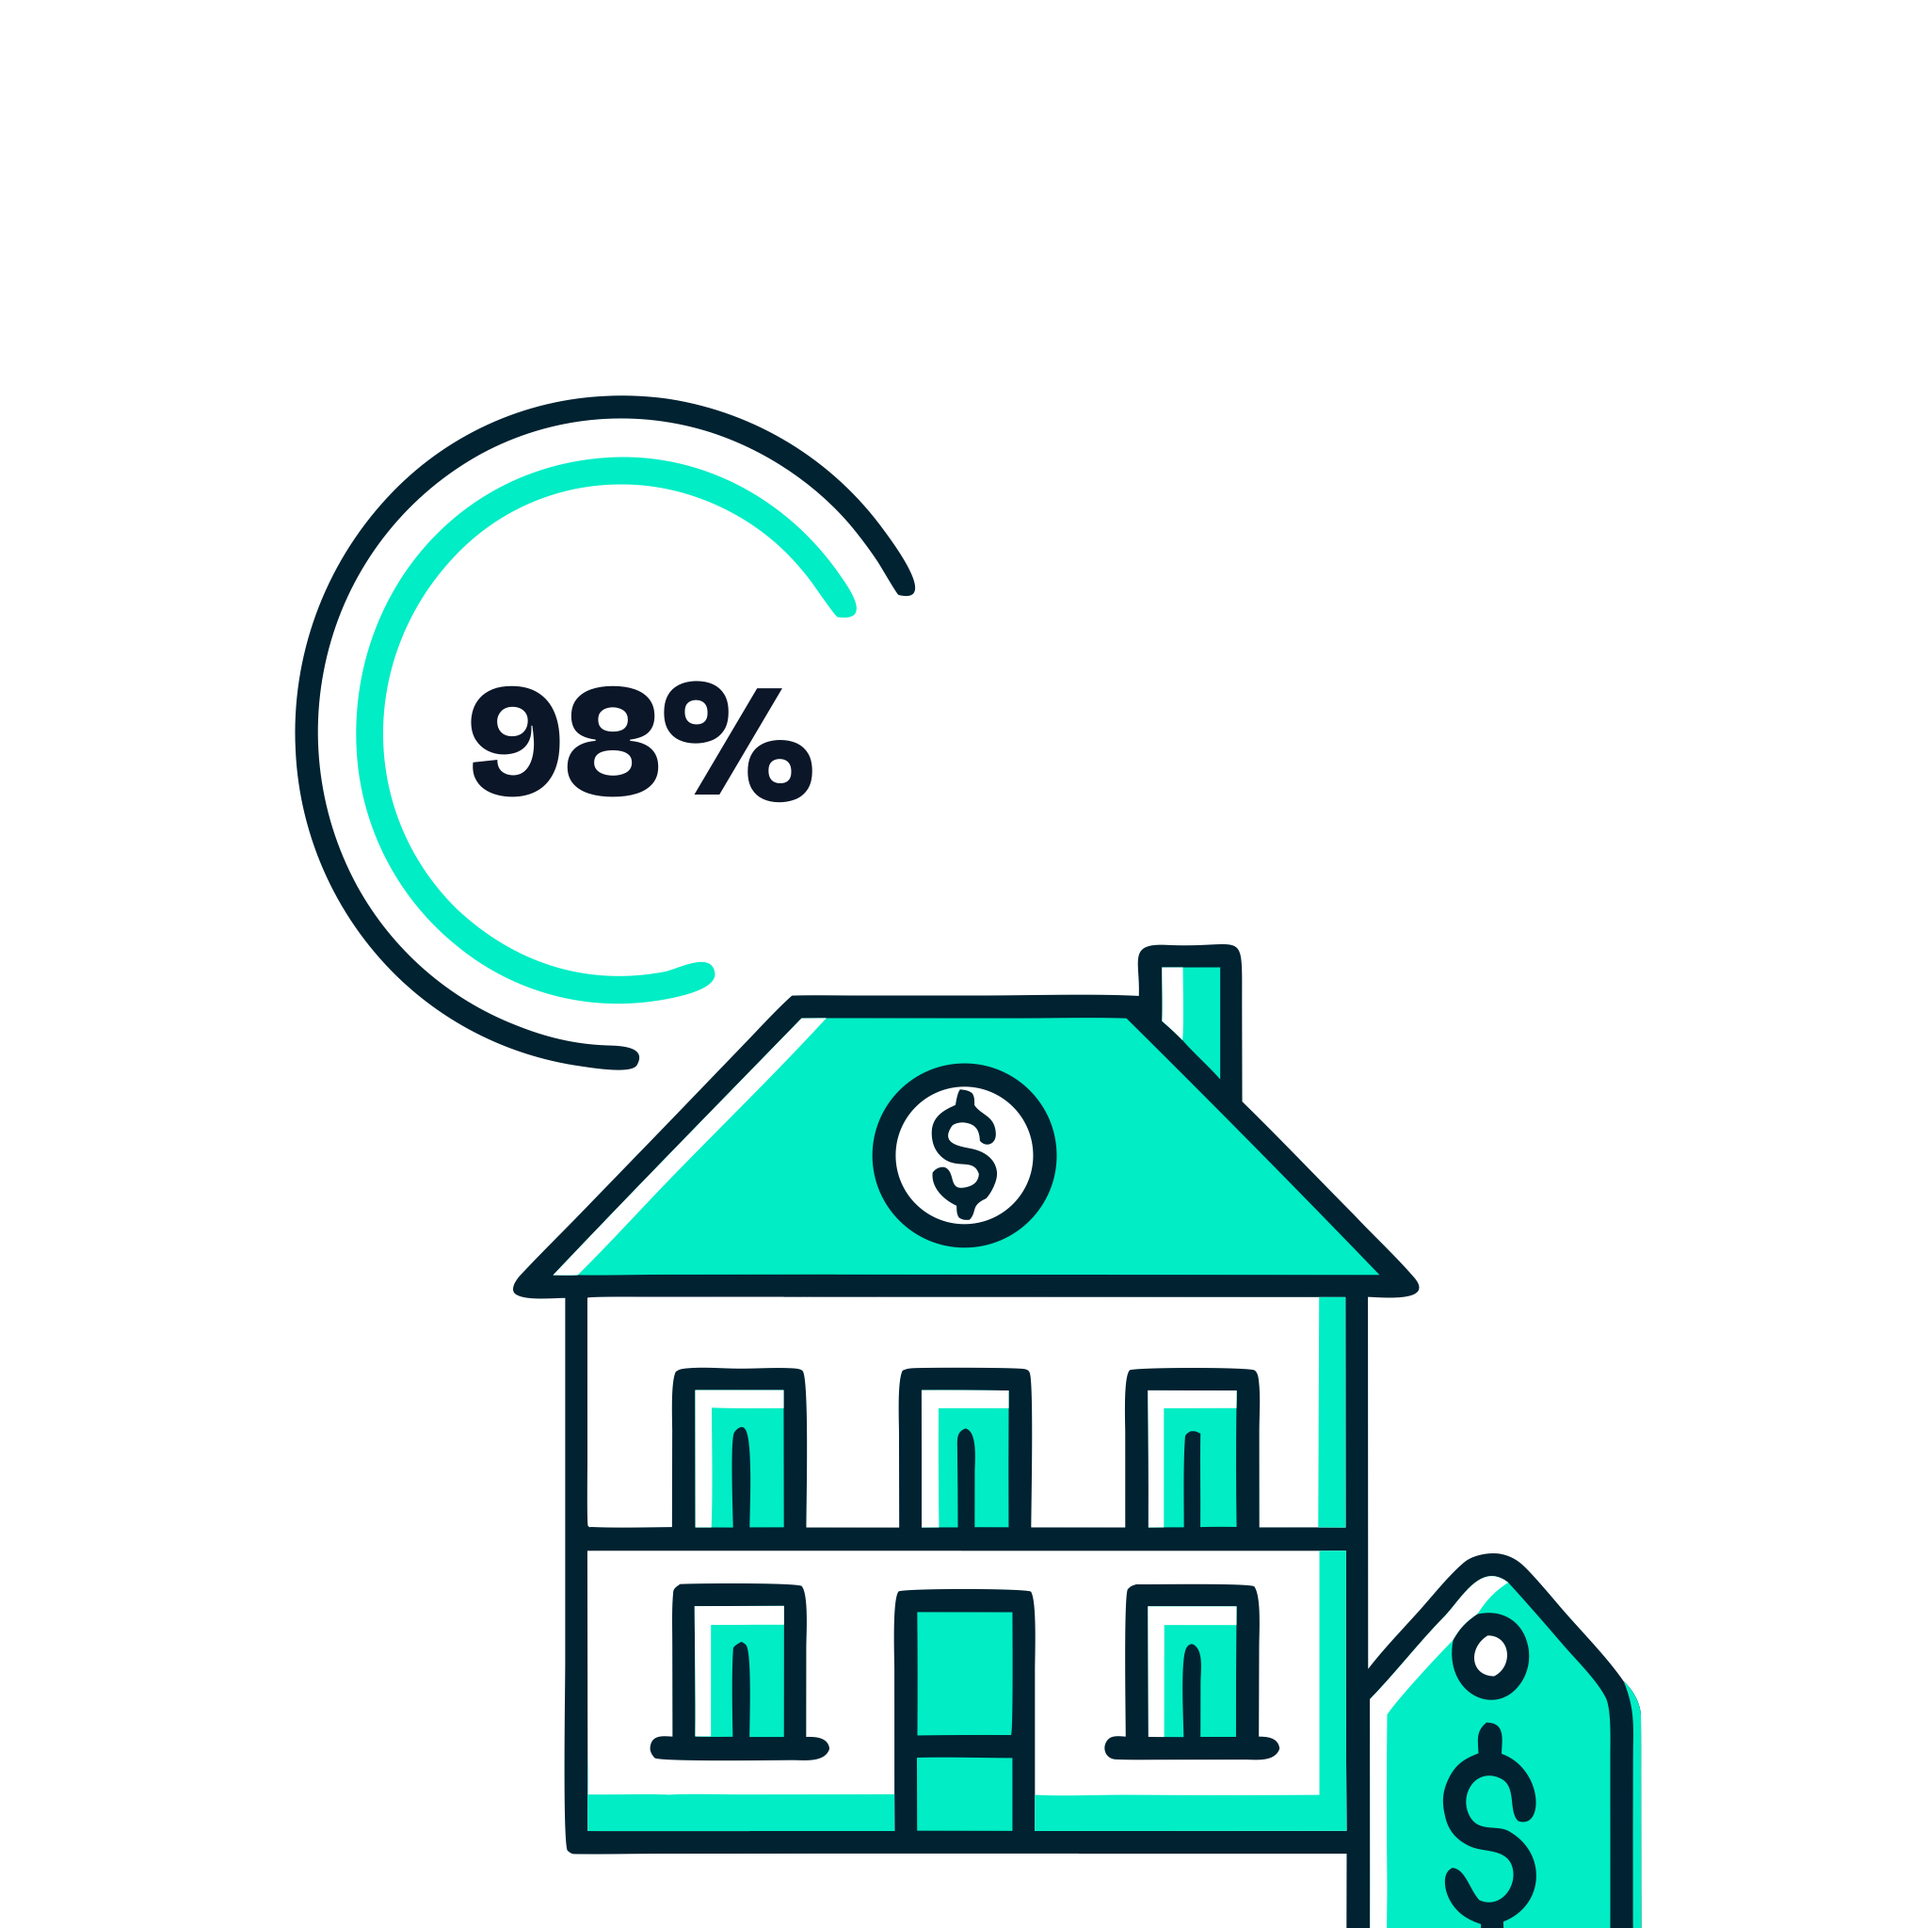
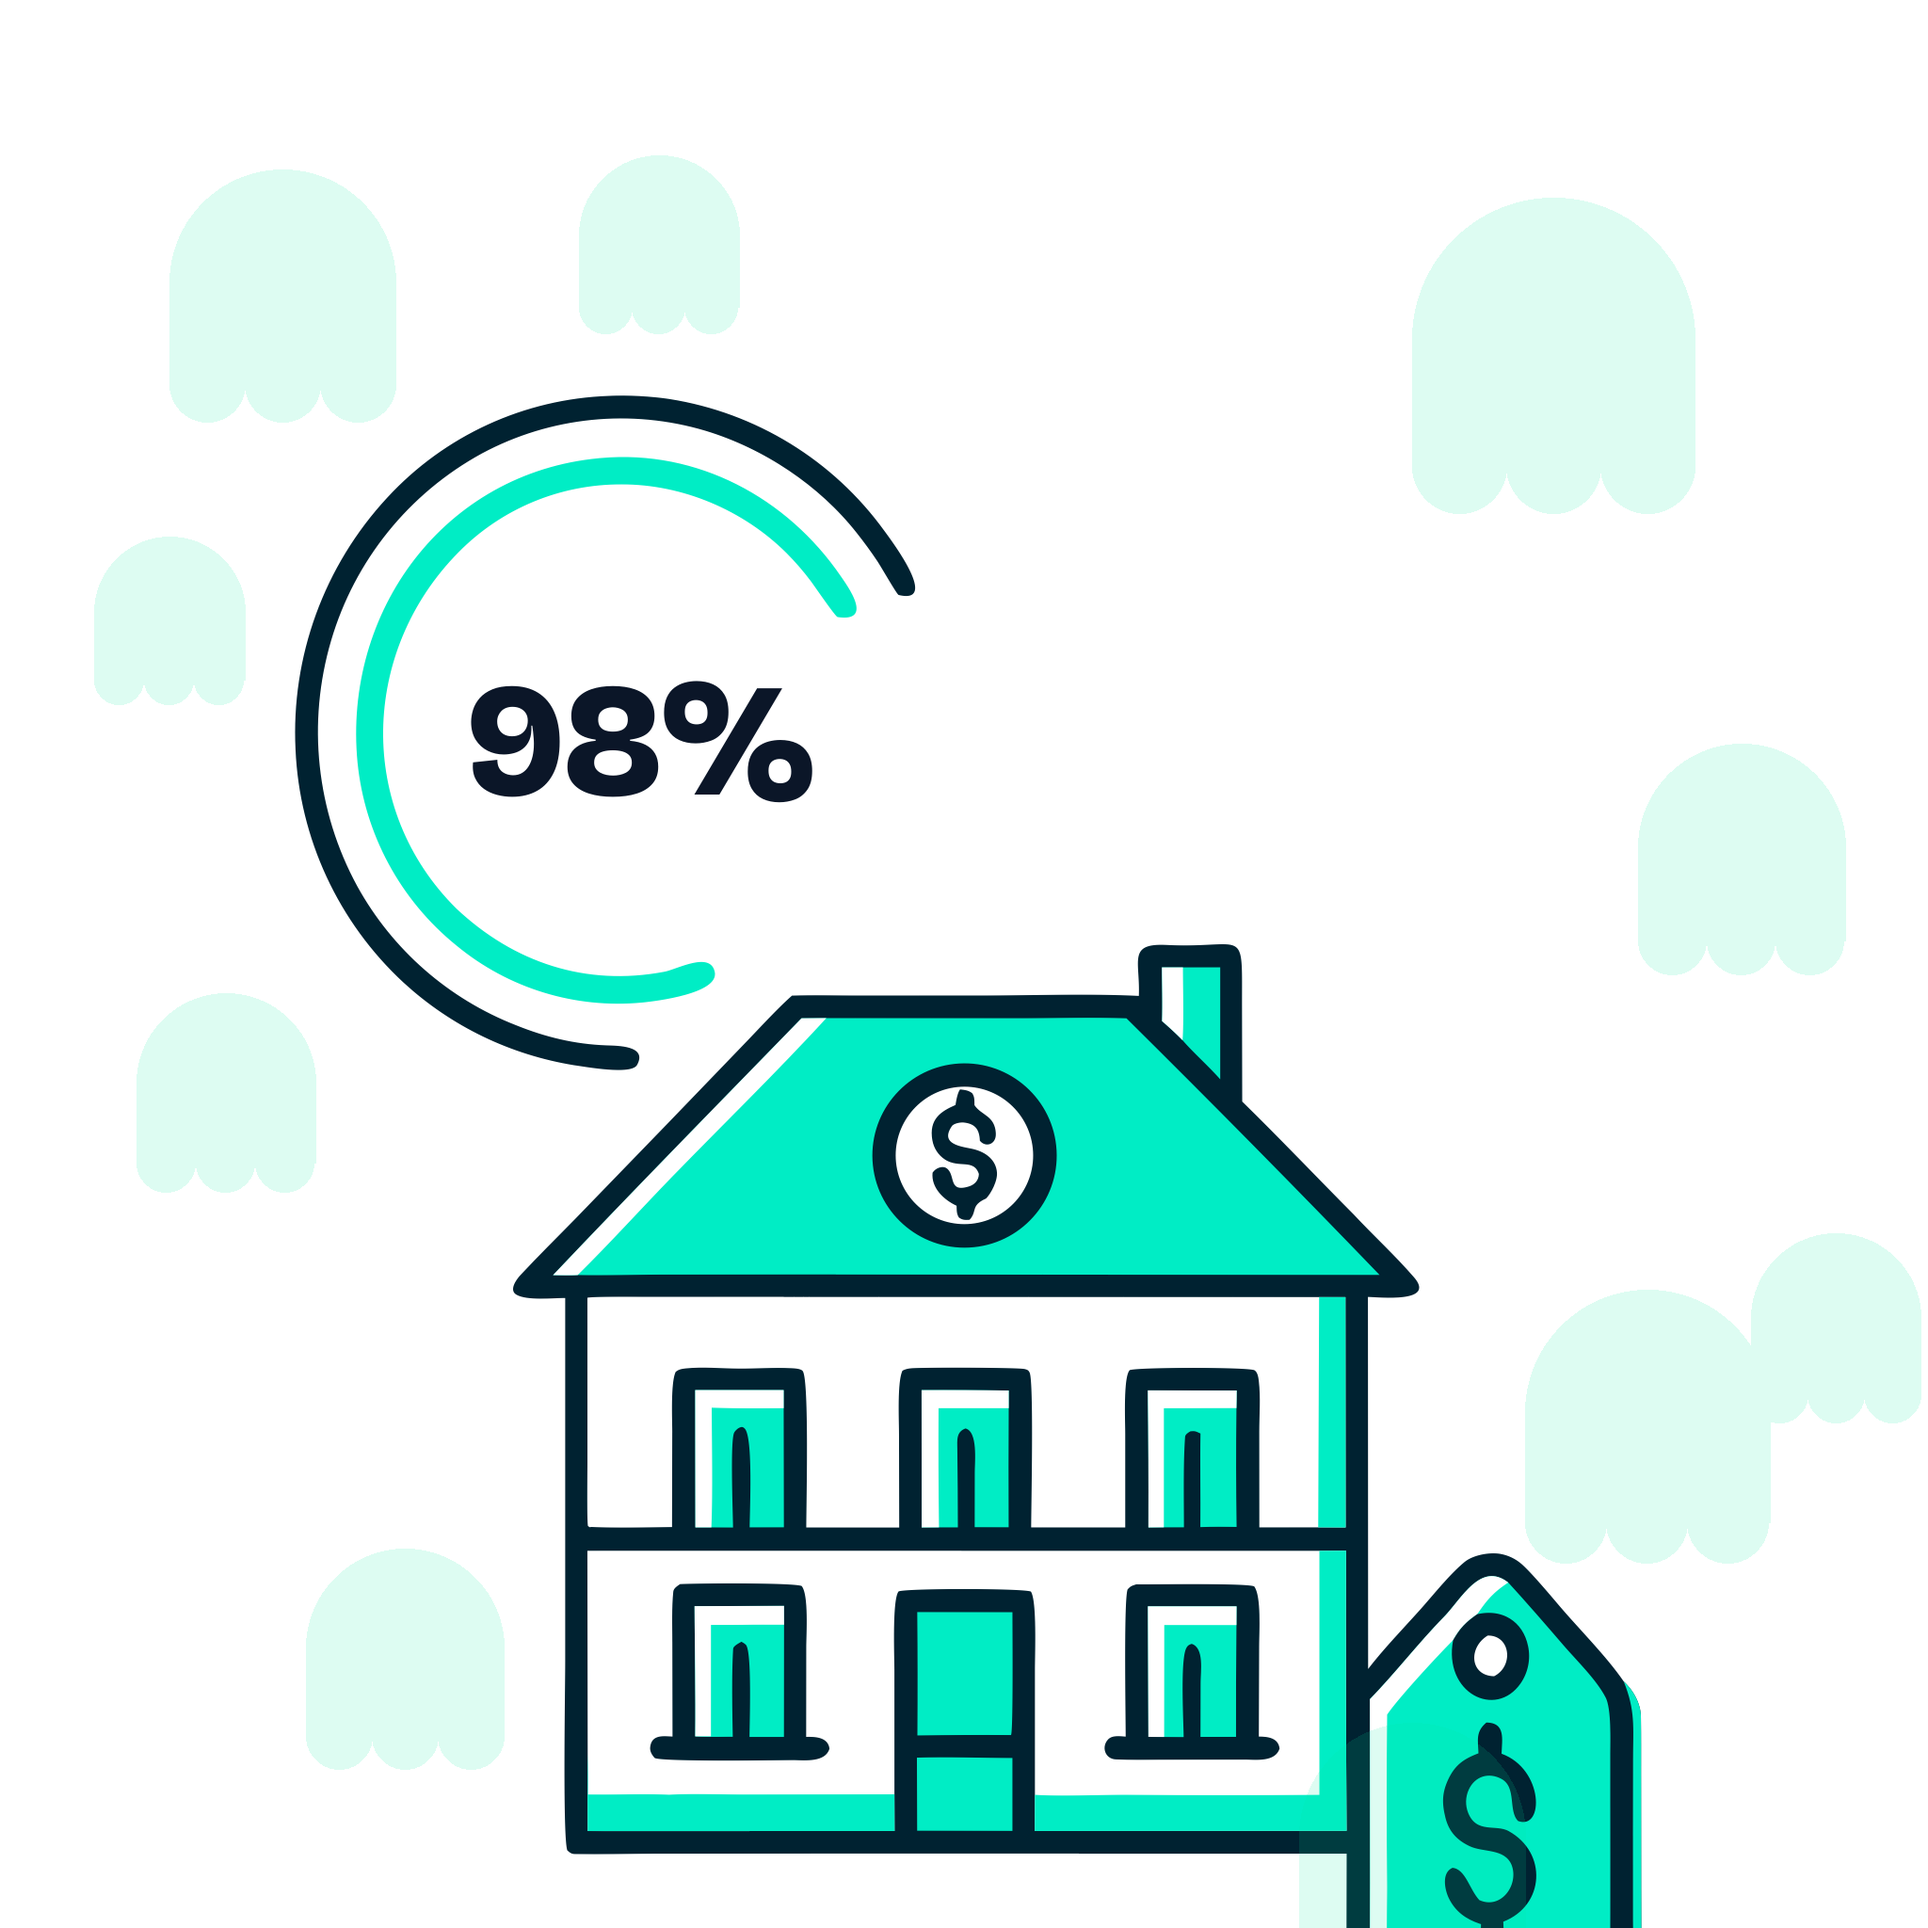
Ad review v2: fix mockup crop (show full 1:1 in feed), 1:1 square Tyler videos (blurred-fill, no zoom), roimath green-ghost background

diff --git a/public/ad-review.html b/public/ad-review.html
@@ -52,7 +52,7 @@
   .fb-dots{margin-left:auto;color:var(--fb-sub);font-size:20px;line-height:0;letter-spacing:1px}
   .fb-primary{padding:2px 12px 10px;font-size:14.5px;line-height:1.45}
   .fb-media{background:#000;display:flex;align-items:center;justify-content:center}
-  .fb-media img,.fb-media video{width:100%;display:block;max-height:420px;object-fit:cover}
+  .fb-media img,.fb-media video{width:100%;height:auto;display:block}
   .fb-linkbar{display:flex;align-items:center;gap:10px;background:var(--fb-bg);padding:10px 12px}
   .fb-linkbar .txt{min-width:0}
   .fb-domain{font-size:12px;color:var(--fb-sub);text-transform:uppercase;letter-spacing:.02em}
@@ -178,9 +178,9 @@ const ADS = [
   {id:"static-roofer",      angle:"Wasted-spend · service pro", type:"img", src:"/ads/cr_roofer.png", fmt:"Static · 1:1", onimg:"Get back the 98% who leave."},
   {id:"static-team",        angle:"Consent · service crew", type:"img", src:"/ads/cr_team.png", fmt:"Static · 1:1", onimg:"Leads that opted in. Not scraped."},
   {id:"static-roimath",     angle:"ROI-math · line-art", type:"img", src:"/ads/cr_roimath_4x5.png", fmt:"Static · 4:5", onimg:""},
-  {id:"video-leakstat",     angle:"Tyler · Leak / 98%", type:"vid", src:"https://pub-27fc71b9070247178d8756a59bef0b33.r2.dev/social/sprint/leak-stat.mp4", fmt:"Video · 9:16", onimg:""},
-  {id:"video-math",         angle:"Tyler · ROI ($100 vs $7)", type:"vid", src:"https://pub-27fc71b9070247178d8756a59bef0b33.r2.dev/social/sprint/math-new.mp4", fmt:"Video · 9:16", onimg:""},
-  {id:"video-creepy",       angle:"Tyler · Consent vs creepy", type:"vid", src:"https://pub-27fc71b9070247178d8756a59bef0b33.r2.dev/social/sprint/creepy-new.mp4", fmt:"Video · 9:16", onimg:""},
+  {id:"video-leakstat",     angle:"Tyler · Leak / 98%", type:"vid", src:"https://pub-27fc71b9070247178d8756a59bef0b33.r2.dev/social/sprint/leak-stat-sq.mp4", fmt:"Video · 1:1", onimg:""},
+  {id:"video-math",         angle:"Tyler · ROI ($100 vs $7)", type:"vid", src:"https://pub-27fc71b9070247178d8756a59bef0b33.r2.dev/social/sprint/math-new-sq.mp4", fmt:"Video · 1:1", onimg:""},
+  {id:"video-creepy",       angle:"Tyler · Consent vs creepy", type:"vid", src:"https://pub-27fc71b9070247178d8756a59bef0b33.r2.dev/social/sprint/creepy-new-sq.mp4", fmt:"Video · 1:1", onimg:""},
 ];
 const KEY = "cr_ad_review_v1";
 const store = JSON.parse(localStorage.getItem(KEY) || "{}");

diff --git a/worker/_lib/meta.js b/worker/_lib/meta.js
@@ -164,10 +164,11 @@ export const STATIC_ADS = [
   "https://consentresolve.com/ads/cr_team.png",         // consent: "Leads that opted in. Not scraped."
   "https://consentresolve.com/ads/cr_roimath_4x5.png",  // ROI-math (line-art diagram, for variety)
 ];
+// 1:1 square versions (blurred-fill) — fit the feed placement without the zoomed-Reel crop.
 export const TYLER_VIDEOS = [
-  "https://pub-27fc71b9070247178d8756a59bef0b33.r2.dev/social/sprint/leak-stat.mp4",
-  "https://pub-27fc71b9070247178d8756a59bef0b33.r2.dev/social/sprint/math-new.mp4",
-  "https://pub-27fc71b9070247178d8756a59bef0b33.r2.dev/social/sprint/creepy-new.mp4",
+  "https://pub-27fc71b9070247178d8756a59bef0b33.r2.dev/social/sprint/leak-stat-sq.mp4",
+  "https://pub-27fc71b9070247178d8756a59bef0b33.r2.dev/social/sprint/math-new-sq.mp4",
+  "https://pub-27fc71b9070247178d8756a59bef0b33.r2.dev/social/sprint/creepy-new-sq.mp4",
 ];
 export const CONV_LINK =
   "https://consentresolve.com/industries/?utm_source=meta&utm_medium=paid&utm_campaign=CR_conv_allpros";
